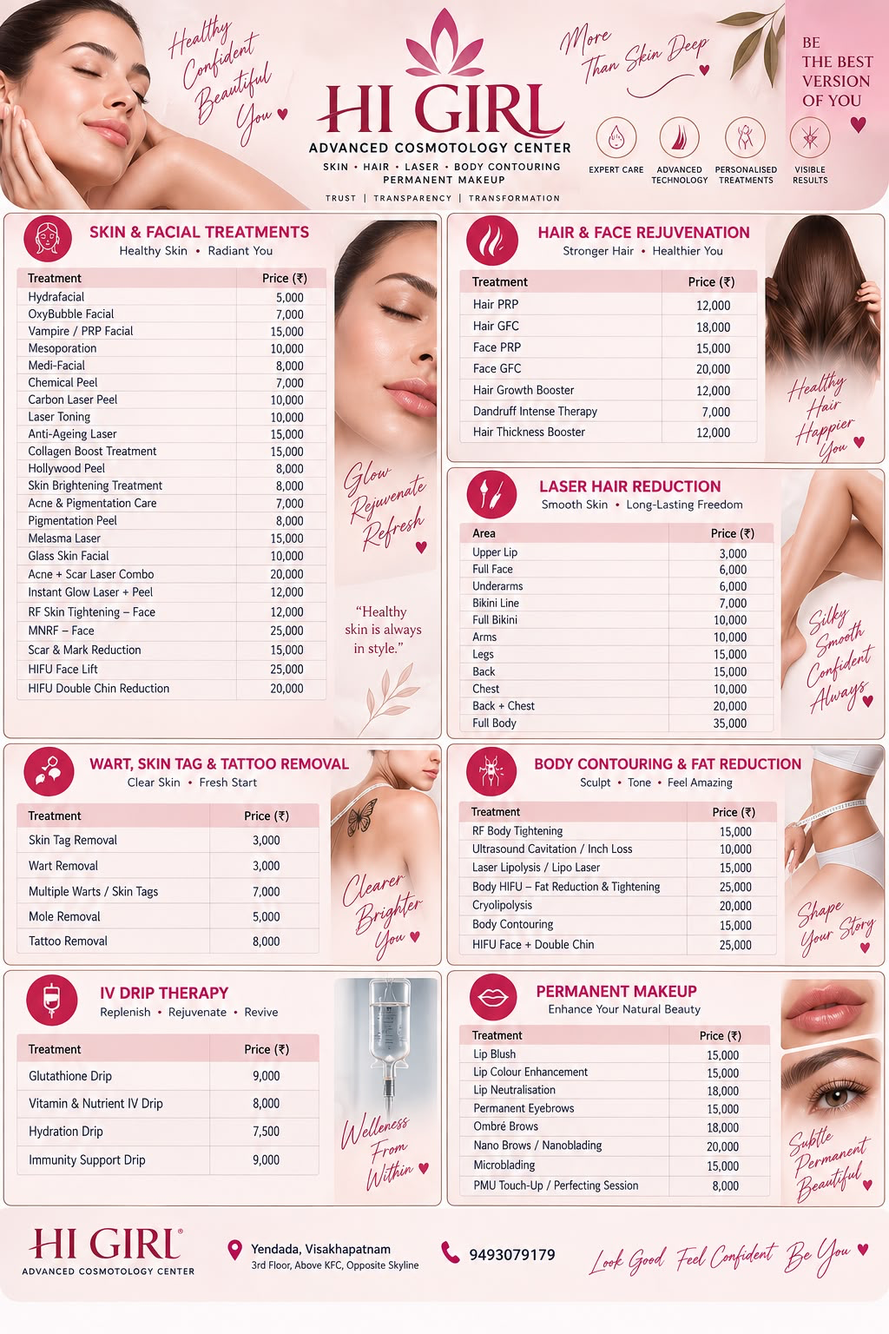
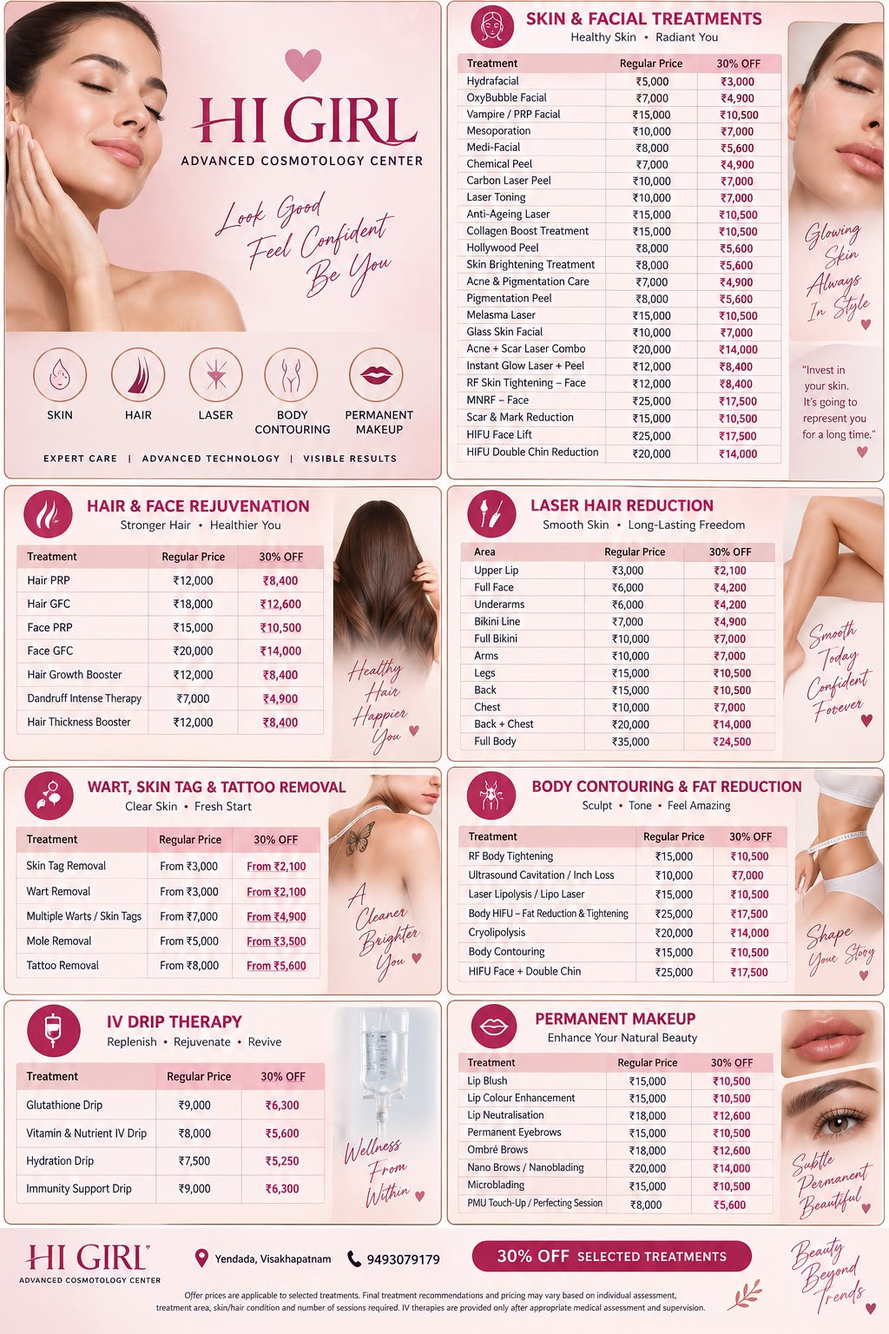
Add 30% off promo pricing to Services with regular + discounted price (#2)
- Show both the regular price (strikethrough) and the current 30% off
  price with a badge on every treatment card, matching the current
  promotional rate card, to make the discount visible at a glance
- Update the section intro copy and add a "30% OFF Selected Treatments"
  promo banner under the price-guide CTA
- Swap the "View Full Price Guide" lightbox image for the 30%-off flyer
  currently being run

Claude-Session: https://claude.ai/code/session_01JaZ162hgMf6UJ9h9KJ2pRi

diff --git a/index.html b/index.html
@@ -133,7 +133,7 @@
   <div class="container">
     <p class="eyebrow center reveal">What We Treat</p>
     <h2 class="center reveal">Services &amp; Treatments</h2>
-    <p class="section-sub center reveal">Final treatment recommendations and pricing may vary based on individual assessment, treatment area/condition and number of sessions required. IV therapies are provided only after appropriate medical assessment and supervision.</p>
+    <p class="section-sub center reveal">Enjoy <strong>30% off</strong> on selected treatments below — final treatment recommendations and pricing may vary based on individual assessment, treatment area/condition and number of sessions required. IV therapies are provided only after appropriate medical assessment and supervision.</p>
 
     <div class="tabs reveal" id="serviceTabs">
       <button class="tab active" data-tab="skin">Skin &amp; Facial Treatments</button>
@@ -148,101 +148,101 @@
     <div class="tab-panels">
       <div class="tab-panel active" data-panel="skin">
         <div class="svc-grid">
-          <div class="svc-card"><h3>Hydrafacial</h3><p>Deep cleansing, exfoliation &amp; hydration for instant glow.</p><span>₹5,000</span></div>
-          <div class="svc-card"><h3>OxyBubble Facial</h3><p>Oxygen-infused bubble facial for radiant, refreshed skin.</p><span>₹7,000</span></div>
-          <div class="svc-card"><h3>Vampire / PRP Facial</h3><p>PRP + microneedling for natural glow &amp; rejuvenation.</p><span>₹15,000</span></div>
-          <div class="svc-card"><h3>Mesoporation</h3><p>Nutrient infusion for deep skin hydration &amp; repair.</p><span>₹10,000</span></div>
-          <div class="svc-card"><h3>Medi-Facial</h3><p>Medical-grade facial for healthy, balanced skin.</p><span>₹8,000</span></div>
-          <div class="svc-card"><h3>Chemical Peel</h3><p>Exfoliates dead skin; treats acne, scars &amp; pigmentation.</p><span>₹7,000</span></div>
-          <div class="svc-card"><h3>Carbon Laser Peel</h3><p>Instant glow treatment that reduces oiliness, acne &amp; pores.</p><span>₹10,000</span></div>
-          <div class="svc-card"><h3>Laser Toning</h3><p>Pigmentation, melasma &amp; uneven skin tone correction.</p><span>₹10,000</span></div>
-          <div class="svc-card"><h3>Anti-Ageing Laser</h3><p>Reduces fine lines &amp; restores youthful skin texture.</p><span>₹15,000</span></div>
-          <div class="svc-card"><h3>Collagen Boost Treatment</h3><p>Stimulates collagen for firmer, plumper skin.</p><span>₹15,000</span></div>
-          <div class="svc-card"><h3>Hollywood Peel</h3><p>Instant brightening carbon peel for red-carpet glow.</p><span>₹8,000</span></div>
-          <div class="svc-card"><h3>Skin Brightening Treatment</h3><p>Evens out tone for visibly brighter skin.</p><span>₹8,000</span></div>
-          <div class="svc-card"><h3>Acne &amp; Pigmentation Care</h3><p>Targeted therapy for acne &amp; pigmentation concerns.</p><span>₹7,000</span></div>
-          <div class="svc-card"><h3>Pigmentation Peel</h3><p>Reduces dark spots &amp; uneven pigmentation.</p><span>₹8,000</span></div>
-          <div class="svc-card"><h3>Melasma Laser</h3><p>Targeted laser therapy for stubborn melasma.</p><span>₹15,000</span></div>
-          <div class="svc-card"><h3>Glass Skin Facial</h3><p>Deep hydration for a dewy, glass-like glow.</p><span>₹10,000</span></div>
-          <div class="svc-card"><h3>Acne + Scar Laser Combo</h3><p>Combined laser therapy for active acne &amp; scarring.</p><span>₹20,000</span></div>
-          <div class="svc-card"><h3>Instant Glow Laser + Peel</h3><p>Laser and peel combo for an immediate radiance boost.</p><span>₹12,000</span></div>
-          <div class="svc-card"><h3>RF Skin Tightening – Face</h3><p>Radiofrequency tightening for firmer facial skin.</p><span>₹12,000</span></div>
-          <div class="svc-card"><h3>MNRF – Face</h3><p>Microneedling + RF for acne scars, pores &amp; tightening.</p><span>₹25,000</span></div>
-          <div class="svc-card"><h3>Scar &amp; Mark Reduction</h3><p>Reduces acne, surgical scars &amp; stretch marks.</p><span>₹15,000</span></div>
-          <div class="svc-card"><h3>HIFU Face Lift</h3><p>Non-surgical skin tightening &amp; lifting.</p><span>₹25,000</span></div>
-          <div class="svc-card"><h3>HIFU Double Chin Reduction</h3><p>Reduces chin fat, improves jawline definition.</p><span>₹20,000</span></div>
+          <div class="svc-card"><h3>Hydrafacial</h3><p>Deep cleansing, exfoliation &amp; hydration for instant glow.</p><div class="svc-price"><span class="price-old">₹5,000</span><span class="price-new">₹3,000</span><span class="price-badge">30% OFF</span></div></div>
+          <div class="svc-card"><h3>OxyBubble Facial</h3><p>Oxygen-infused bubble facial for radiant, refreshed skin.</p><div class="svc-price"><span class="price-old">₹7,000</span><span class="price-new">₹4,900</span><span class="price-badge">30% OFF</span></div></div>
+          <div class="svc-card"><h3>Vampire / PRP Facial</h3><p>PRP + microneedling for natural glow &amp; rejuvenation.</p><div class="svc-price"><span class="price-old">₹15,000</span><span class="price-new">₹10,500</span><span class="price-badge">30% OFF</span></div></div>
+          <div class="svc-card"><h3>Mesoporation</h3><p>Nutrient infusion for deep skin hydration &amp; repair.</p><div class="svc-price"><span class="price-old">₹10,000</span><span class="price-new">₹7,000</span><span class="price-badge">30% OFF</span></div></div>
+          <div class="svc-card"><h3>Medi-Facial</h3><p>Medical-grade facial for healthy, balanced skin.</p><div class="svc-price"><span class="price-old">₹8,000</span><span class="price-new">₹5,600</span><span class="price-badge">30% OFF</span></div></div>
+          <div class="svc-card"><h3>Chemical Peel</h3><p>Exfoliates dead skin; treats acne, scars &amp; pigmentation.</p><div class="svc-price"><span class="price-old">₹7,000</span><span class="price-new">₹4,900</span><span class="price-badge">30% OFF</span></div></div>
+          <div class="svc-card"><h3>Carbon Laser Peel</h3><p>Instant glow treatment that reduces oiliness, acne &amp; pores.</p><div class="svc-price"><span class="price-old">₹10,000</span><span class="price-new">₹7,000</span><span class="price-badge">30% OFF</span></div></div>
+          <div class="svc-card"><h3>Laser Toning</h3><p>Pigmentation, melasma &amp; uneven skin tone correction.</p><div class="svc-price"><span class="price-old">₹10,000</span><span class="price-new">₹7,000</span><span class="price-badge">30% OFF</span></div></div>
+          <div class="svc-card"><h3>Anti-Ageing Laser</h3><p>Reduces fine lines &amp; restores youthful skin texture.</p><div class="svc-price"><span class="price-old">₹15,000</span><span class="price-new">₹10,500</span><span class="price-badge">30% OFF</span></div></div>
+          <div class="svc-card"><h3>Collagen Boost Treatment</h3><p>Stimulates collagen for firmer, plumper skin.</p><div class="svc-price"><span class="price-old">₹15,000</span><span class="price-new">₹10,500</span><span class="price-badge">30% OFF</span></div></div>
+          <div class="svc-card"><h3>Hollywood Peel</h3><p>Instant brightening carbon peel for red-carpet glow.</p><div class="svc-price"><span class="price-old">₹8,000</span><span class="price-new">₹5,600</span><span class="price-badge">30% OFF</span></div></div>
+          <div class="svc-card"><h3>Skin Brightening Treatment</h3><p>Evens out tone for visibly brighter skin.</p><div class="svc-price"><span class="price-old">₹8,000</span><span class="price-new">₹5,600</span><span class="price-badge">30% OFF</span></div></div>
+          <div class="svc-card"><h3>Acne &amp; Pigmentation Care</h3><p>Targeted therapy for acne &amp; pigmentation concerns.</p><div class="svc-price"><span class="price-old">₹7,000</span><span class="price-new">₹4,900</span><span class="price-badge">30% OFF</span></div></div>
+          <div class="svc-card"><h3>Pigmentation Peel</h3><p>Reduces dark spots &amp; uneven pigmentation.</p><div class="svc-price"><span class="price-old">₹8,000</span><span class="price-new">₹5,600</span><span class="price-badge">30% OFF</span></div></div>
+          <div class="svc-card"><h3>Melasma Laser</h3><p>Targeted laser therapy for stubborn melasma.</p><div class="svc-price"><span class="price-old">₹15,000</span><span class="price-new">₹10,500</span><span class="price-badge">30% OFF</span></div></div>
+          <div class="svc-card"><h3>Glass Skin Facial</h3><p>Deep hydration for a dewy, glass-like glow.</p><div class="svc-price"><span class="price-old">₹10,000</span><span class="price-new">₹7,000</span><span class="price-badge">30% OFF</span></div></div>
+          <div class="svc-card"><h3>Acne + Scar Laser Combo</h3><p>Combined laser therapy for active acne &amp; scarring.</p><div class="svc-price"><span class="price-old">₹20,000</span><span class="price-new">₹14,000</span><span class="price-badge">30% OFF</span></div></div>
+          <div class="svc-card"><h3>Instant Glow Laser + Peel</h3><p>Laser and peel combo for an immediate radiance boost.</p><div class="svc-price"><span class="price-old">₹12,000</span><span class="price-new">₹8,400</span><span class="price-badge">30% OFF</span></div></div>
+          <div class="svc-card"><h3>RF Skin Tightening – Face</h3><p>Radiofrequency tightening for firmer facial skin.</p><div class="svc-price"><span class="price-old">₹12,000</span><span class="price-new">₹8,400</span><span class="price-badge">30% OFF</span></div></div>
+          <div class="svc-card"><h3>MNRF – Face</h3><p>Microneedling + RF for acne scars, pores &amp; tightening.</p><div class="svc-price"><span class="price-old">₹25,000</span><span class="price-new">₹17,500</span><span class="price-badge">30% OFF</span></div></div>
+          <div class="svc-card"><h3>Scar &amp; Mark Reduction</h3><p>Reduces acne, surgical scars &amp; stretch marks.</p><div class="svc-price"><span class="price-old">₹15,000</span><span class="price-new">₹10,500</span><span class="price-badge">30% OFF</span></div></div>
+          <div class="svc-card"><h3>HIFU Face Lift</h3><p>Non-surgical skin tightening &amp; lifting.</p><div class="svc-price"><span class="price-old">₹25,000</span><span class="price-new">₹17,500</span><span class="price-badge">30% OFF</span></div></div>
+          <div class="svc-card"><h3>HIFU Double Chin Reduction</h3><p>Reduces chin fat, improves jawline definition.</p><div class="svc-price"><span class="price-old">₹20,000</span><span class="price-new">₹14,000</span><span class="price-badge">30% OFF</span></div></div>
         </div>
       </div>
 
       <div class="tab-panel" data-panel="hair">
         <div class="svc-grid">
-          <div class="svc-card"><h3>Hair PRP</h3><p>Platelet-rich plasma scalp therapy for regrowth.</p><span>₹12,000</span></div>
-          <div class="svc-card"><h3>Hair GFC</h3><p>Growth-factor concentrate therapy for hair regrowth.</p><span>₹18,000</span></div>
-          <div class="svc-card"><h3>Face PRP</h3><p>From your own blood, for facial skin rejuvenation.</p><span>₹15,000</span></div>
-          <div class="svc-card"><h3>Face GFC</h3><p>Advanced growth factors for facial rejuvenation.</p><span>₹20,000</span></div>
-          <div class="svc-card"><h3>Hair Growth Booster</h3><p>Strengthens hair, reduces fall &amp; improves density.</p><span>₹12,000</span></div>
-          <div class="svc-card"><h3>Dandruff Intense Therapy</h3><p>Targeted scalp therapy for stubborn dandruff.</p><span>₹7,000</span></div>
-          <div class="svc-card"><h3>Hair Thickness Booster</h3><p>Improves hair density &amp; thickness over sessions.</p><span>₹12,000</span></div>
+          <div class="svc-card"><h3>Hair PRP</h3><p>Platelet-rich plasma scalp therapy for regrowth.</p><div class="svc-price"><span class="price-old">₹12,000</span><span class="price-new">₹8,400</span><span class="price-badge">30% OFF</span></div></div>
+          <div class="svc-card"><h3>Hair GFC</h3><p>Growth-factor concentrate therapy for hair regrowth.</p><div class="svc-price"><span class="price-old">₹18,000</span><span class="price-new">₹12,600</span><span class="price-badge">30% OFF</span></div></div>
+          <div class="svc-card"><h3>Face PRP</h3><p>From your own blood, for facial skin rejuvenation.</p><div class="svc-price"><span class="price-old">₹15,000</span><span class="price-new">₹10,500</span><span class="price-badge">30% OFF</span></div></div>
+          <div class="svc-card"><h3>Face GFC</h3><p>Advanced growth factors for facial rejuvenation.</p><div class="svc-price"><span class="price-old">₹20,000</span><span class="price-new">₹14,000</span><span class="price-badge">30% OFF</span></div></div>
+          <div class="svc-card"><h3>Hair Growth Booster</h3><p>Strengthens hair, reduces fall &amp; improves density.</p><div class="svc-price"><span class="price-old">₹12,000</span><span class="price-new">₹8,400</span><span class="price-badge">30% OFF</span></div></div>
+          <div class="svc-card"><h3>Dandruff Intense Therapy</h3><p>Targeted scalp therapy for stubborn dandruff.</p><div class="svc-price"><span class="price-old">₹7,000</span><span class="price-new">₹4,900</span><span class="price-badge">30% OFF</span></div></div>
+          <div class="svc-card"><h3>Hair Thickness Booster</h3><p>Improves hair density &amp; thickness over sessions.</p><div class="svc-price"><span class="price-old">₹12,000</span><span class="price-new">₹8,400</span><span class="price-badge">30% OFF</span></div></div>
         </div>
       </div>
 
       <div class="tab-panel" data-panel="laser">
         <div class="svc-grid">
-          <div class="svc-card"><h3>Upper Lip</h3><p>Permanent hair reduction, safe for all skin types.</p><span>₹3,000</span></div>
-          <div class="svc-card"><h3>Full Face</h3><p>Permanent hair reduction, safe for all skin types.</p><span>₹6,000</span></div>
-          <div class="svc-card"><h3>Underarms</h3><p>Permanent hair reduction, safe for all skin types.</p><span>₹6,000</span></div>
-          <div class="svc-card"><h3>Bikini Line</h3><p>Permanent hair reduction, safe for all skin types.</p><span>₹7,000</span></div>
-          <div class="svc-card"><h3>Full Bikini</h3><p>Permanent hair reduction, safe for all skin types.</p><span>₹10,000</span></div>
-          <div class="svc-card"><h3>Arms</h3><p>Permanent hair reduction, safe for all skin types.</p><span>₹10,000</span></div>
-          <div class="svc-card"><h3>Legs</h3><p>Permanent hair reduction, safe for all skin types.</p><span>₹15,000</span></div>
-          <div class="svc-card"><h3>Back</h3><p>Permanent hair reduction, safe for all skin types.</p><span>₹15,000</span></div>
-          <div class="svc-card"><h3>Chest</h3><p>Permanent hair reduction, safe for all skin types.</p><span>₹10,000</span></div>
-          <div class="svc-card"><h3>Back + Chest</h3><p>Permanent hair reduction, safe for all skin types.</p><span>₹20,000</span></div>
-          <div class="svc-card"><h3>Full Body</h3><p>Permanent hair reduction, safe for all skin types.</p><span>₹35,000</span></div>
+          <div class="svc-card"><h3>Upper Lip</h3><p>Permanent hair reduction, safe for all skin types.</p><div class="svc-price"><span class="price-old">₹3,000</span><span class="price-new">₹2,100</span><span class="price-badge">30% OFF</span></div></div>
+          <div class="svc-card"><h3>Full Face</h3><p>Permanent hair reduction, safe for all skin types.</p><div class="svc-price"><span class="price-old">₹6,000</span><span class="price-new">₹4,200</span><span class="price-badge">30% OFF</span></div></div>
+          <div class="svc-card"><h3>Underarms</h3><p>Permanent hair reduction, safe for all skin types.</p><div class="svc-price"><span class="price-old">₹6,000</span><span class="price-new">₹4,200</span><span class="price-badge">30% OFF</span></div></div>
+          <div class="svc-card"><h3>Bikini Line</h3><p>Permanent hair reduction, safe for all skin types.</p><div class="svc-price"><span class="price-old">₹7,000</span><span class="price-new">₹4,900</span><span class="price-badge">30% OFF</span></div></div>
+          <div class="svc-card"><h3>Full Bikini</h3><p>Permanent hair reduction, safe for all skin types.</p><div class="svc-price"><span class="price-old">₹10,000</span><span class="price-new">₹7,000</span><span class="price-badge">30% OFF</span></div></div>
+          <div class="svc-card"><h3>Arms</h3><p>Permanent hair reduction, safe for all skin types.</p><div class="svc-price"><span class="price-old">₹10,000</span><span class="price-new">₹7,000</span><span class="price-badge">30% OFF</span></div></div>
+          <div class="svc-card"><h3>Legs</h3><p>Permanent hair reduction, safe for all skin types.</p><div class="svc-price"><span class="price-old">₹15,000</span><span class="price-new">₹10,500</span><span class="price-badge">30% OFF</span></div></div>
+          <div class="svc-card"><h3>Back</h3><p>Permanent hair reduction, safe for all skin types.</p><div class="svc-price"><span class="price-old">₹15,000</span><span class="price-new">₹10,500</span><span class="price-badge">30% OFF</span></div></div>
+          <div class="svc-card"><h3>Chest</h3><p>Permanent hair reduction, safe for all skin types.</p><div class="svc-price"><span class="price-old">₹10,000</span><span class="price-new">₹7,000</span><span class="price-badge">30% OFF</span></div></div>
+          <div class="svc-card"><h3>Back + Chest</h3><p>Permanent hair reduction, safe for all skin types.</p><div class="svc-price"><span class="price-old">₹20,000</span><span class="price-new">₹14,000</span><span class="price-badge">30% OFF</span></div></div>
+          <div class="svc-card"><h3>Full Body</h3><p>Permanent hair reduction, safe for all skin types.</p><div class="svc-price"><span class="price-old">₹35,000</span><span class="price-new">₹24,500</span><span class="price-badge">30% OFF</span></div></div>
         </div>
       </div>
 
       <div class="tab-panel" data-panel="removal">
         <div class="svc-grid">
-          <div class="svc-card"><h3>Skin Tag Removal</h3><p>Safe, quick &amp; painless removal.</p><span>From ₹3,000</span></div>
-          <div class="svc-card"><h3>Wart Removal</h3><p>Safe, quick &amp; painless removal.</p><span>From ₹3,000</span></div>
-          <div class="svc-card"><h3>Multiple Warts / Skin Tags</h3><p>Safe, quick &amp; painless removal.</p><span>From ₹7,000</span></div>
-          <div class="svc-card"><h3>Mole Removal</h3><p>Safe, quick &amp; painless removal.</p><span>From ₹5,000</span></div>
-          <div class="svc-card"><h3>Tattoo Removal</h3><p>Laser fading &amp; removal of unwanted tattoos.</p><span>From ₹8,000</span></div>
+          <div class="svc-card"><h3>Skin Tag Removal</h3><p>Safe, quick &amp; painless removal.</p><div class="svc-price"><span class="price-old">From ₹3,000</span><span class="price-new">From ₹2,100</span><span class="price-badge">30% OFF</span></div></div>
+          <div class="svc-card"><h3>Wart Removal</h3><p>Safe, quick &amp; painless removal.</p><div class="svc-price"><span class="price-old">From ₹3,000</span><span class="price-new">From ₹2,100</span><span class="price-badge">30% OFF</span></div></div>
+          <div class="svc-card"><h3>Multiple Warts / Skin Tags</h3><p>Safe, quick &amp; painless removal.</p><div class="svc-price"><span class="price-old">From ₹7,000</span><span class="price-new">From ₹4,900</span><span class="price-badge">30% OFF</span></div></div>
+          <div class="svc-card"><h3>Mole Removal</h3><p>Safe, quick &amp; painless removal.</p><div class="svc-price"><span class="price-old">From ₹5,000</span><span class="price-new">From ₹3,500</span><span class="price-badge">30% OFF</span></div></div>
+          <div class="svc-card"><h3>Tattoo Removal</h3><p>Laser fading &amp; removal of unwanted tattoos.</p><div class="svc-price"><span class="price-old">From ₹8,000</span><span class="price-new">From ₹5,600</span><span class="price-badge">30% OFF</span></div></div>
         </div>
       </div>
 
       <div class="tab-panel" data-panel="body">
         <div class="svc-grid">
-          <div class="svc-card"><h3>RF Body Tightening</h3><p>Radiofrequency tightening &amp; toning for the body.</p><span>₹15,000</span></div>
-          <div class="svc-card"><h3>Ultrasound Cavitation / Inch Loss</h3><p>Non-invasive fat reduction &amp; inch-loss therapy.</p><span>₹10,000</span></div>
-          <div class="svc-card"><h3>Laser Lipolysis / Lipo Laser</h3><p>Laser fat reduction &amp; body contouring.</p><span>₹15,000</span></div>
-          <div class="svc-card"><h3>Body HIFU – Fat Reduction &amp; Tightening</h3><p>Non-surgical fat reduction &amp; skin tightening.</p><span>₹25,000</span></div>
-          <div class="svc-card"><h3>Cryolipolysis</h3><p>Fat-freezing treatment for stubborn fat cells.</p><span>₹20,000</span></div>
-          <div class="svc-card"><h3>Body Contouring</h3><p>Sculpts &amp; tones for a refined body shape.</p><span>₹15,000</span></div>
-          <div class="svc-card"><h3>HIFU Face + Double Chin</h3><p>Combined facial &amp; double-chin lifting therapy.</p><span>₹25,000</span></div>
+          <div class="svc-card"><h3>RF Body Tightening</h3><p>Radiofrequency tightening &amp; toning for the body.</p><div class="svc-price"><span class="price-old">₹15,000</span><span class="price-new">₹10,500</span><span class="price-badge">30% OFF</span></div></div>
+          <div class="svc-card"><h3>Ultrasound Cavitation / Inch Loss</h3><p>Non-invasive fat reduction &amp; inch-loss therapy.</p><div class="svc-price"><span class="price-old">₹10,000</span><span class="price-new">₹7,000</span><span class="price-badge">30% OFF</span></div></div>
+          <div class="svc-card"><h3>Laser Lipolysis / Lipo Laser</h3><p>Laser fat reduction &amp; body contouring.</p><div class="svc-price"><span class="price-old">₹15,000</span><span class="price-new">₹10,500</span><span class="price-badge">30% OFF</span></div></div>
+          <div class="svc-card"><h3>Body HIFU – Fat Reduction &amp; Tightening</h3><p>Non-surgical fat reduction &amp; skin tightening.</p><div class="svc-price"><span class="price-old">₹25,000</span><span class="price-new">₹17,500</span><span class="price-badge">30% OFF</span></div></div>
+          <div class="svc-card"><h3>Cryolipolysis</h3><p>Fat-freezing treatment for stubborn fat cells.</p><div class="svc-price"><span class="price-old">₹20,000</span><span class="price-new">₹14,000</span><span class="price-badge">30% OFF</span></div></div>
+          <div class="svc-card"><h3>Body Contouring</h3><p>Sculpts &amp; tones for a refined body shape.</p><div class="svc-price"><span class="price-old">₹15,000</span><span class="price-new">₹10,500</span><span class="price-badge">30% OFF</span></div></div>
+          <div class="svc-card"><h3>HIFU Face + Double Chin</h3><p>Combined facial &amp; double-chin lifting therapy.</p><div class="svc-price"><span class="price-old">₹25,000</span><span class="price-new">₹17,500</span><span class="price-badge">30% OFF</span></div></div>
         </div>
       </div>
 
       <div class="tab-panel" data-panel="pmu">
         <div class="svc-grid">
-          <div class="svc-card"><h3>Lip Blush</h3><p>Improves natural lip colour &amp; shape.</p><span>₹15,000</span></div>
-          <div class="svc-card"><h3>Lip Colour Enhancement</h3><p>Semi-permanent natural lip colour.</p><span>₹15,000</span></div>
-          <div class="svc-card"><h3>Lip Neutralisation</h3><p>Corrects uneven or pigmented lip tone.</p><span>₹18,000</span></div>
-          <div class="svc-card"><h3>Permanent Eyebrows</h3><p>Semi-permanent eyebrow hair strokes.</p><span>₹15,000</span></div>
-          <div class="svc-card"><h3>Ombré Brows</h3><p>Soft powder-effect brows, naturally defined.</p><span>₹18,000</span></div>
-          <div class="svc-card"><h3>Nano Brows / Nanoblading</h3><p>Ultra-fine hair-stroke brows for a natural look.</p><span>₹20,000</span></div>
-          <div class="svc-card"><h3>Microblading</h3><p>Semi-permanent eyebrow hair strokes.</p><span>₹15,000</span></div>
-          <div class="svc-card"><h3>PMU Touch-Up / Perfecting Session</h3><p>Refreshes &amp; perfects existing permanent makeup.</p><span>₹8,000</span></div>
+          <div class="svc-card"><h3>Lip Blush</h3><p>Improves natural lip colour &amp; shape.</p><div class="svc-price"><span class="price-old">₹15,000</span><span class="price-new">₹10,500</span><span class="price-badge">30% OFF</span></div></div>
+          <div class="svc-card"><h3>Lip Colour Enhancement</h3><p>Semi-permanent natural lip colour.</p><div class="svc-price"><span class="price-old">₹15,000</span><span class="price-new">₹10,500</span><span class="price-badge">30% OFF</span></div></div>
+          <div class="svc-card"><h3>Lip Neutralisation</h3><p>Corrects uneven or pigmented lip tone.</p><div class="svc-price"><span class="price-old">₹18,000</span><span class="price-new">₹12,600</span><span class="price-badge">30% OFF</span></div></div>
+          <div class="svc-card"><h3>Permanent Eyebrows</h3><p>Semi-permanent eyebrow hair strokes.</p><div class="svc-price"><span class="price-old">₹15,000</span><span class="price-new">₹10,500</span><span class="price-badge">30% OFF</span></div></div>
+          <div class="svc-card"><h3>Ombré Brows</h3><p>Soft powder-effect brows, naturally defined.</p><div class="svc-price"><span class="price-old">₹18,000</span><span class="price-new">₹12,600</span><span class="price-badge">30% OFF</span></div></div>
+          <div class="svc-card"><h3>Nano Brows / Nanoblading</h3><p>Ultra-fine hair-stroke brows for a natural look.</p><div class="svc-price"><span class="price-old">₹20,000</span><span class="price-new">₹14,000</span><span class="price-badge">30% OFF</span></div></div>
+          <div class="svc-card"><h3>Microblading</h3><p>Semi-permanent eyebrow hair strokes.</p><div class="svc-price"><span class="price-old">₹15,000</span><span class="price-new">₹10,500</span><span class="price-badge">30% OFF</span></div></div>
+          <div class="svc-card"><h3>PMU Touch-Up / Perfecting Session</h3><p>Refreshes &amp; perfects existing permanent makeup.</p><div class="svc-price"><span class="price-old">₹8,000</span><span class="price-new">₹5,600</span><span class="price-badge">30% OFF</span></div></div>
         </div>
       </div>
 
       <div class="tab-panel" data-panel="wellness">
         <div class="svc-grid">
-          <div class="svc-card"><h3>Glutathione Drip</h3><p>Skin brightening &amp; detoxification drip.</p><span>₹9,000</span></div>
-          <div class="svc-card"><h3>Vitamin &amp; Nutrient IV Drip</h3><p>Replenishing vitamin &amp; nutrient infusion.</p><span>₹8,000</span></div>
-          <div class="svc-card"><h3>Hydration Drip</h3><p>Rapid rehydration &amp; wellness boost.</p><span>₹7,500</span></div>
-          <div class="svc-card"><h3>Immunity Support Drip</h3><p>Vitamin &amp; antioxidant drip to boost immunity.</p><span>₹9,000</span></div>
+          <div class="svc-card"><h3>Glutathione Drip</h3><p>Skin brightening &amp; detoxification drip.</p><div class="svc-price"><span class="price-old">₹9,000</span><span class="price-new">₹6,300</span><span class="price-badge">30% OFF</span></div></div>
+          <div class="svc-card"><h3>Vitamin &amp; Nutrient IV Drip</h3><p>Replenishing vitamin &amp; nutrient infusion.</p><div class="svc-price"><span class="price-old">₹8,000</span><span class="price-new">₹5,600</span><span class="price-badge">30% OFF</span></div></div>
+          <div class="svc-card"><h3>Hydration Drip</h3><p>Rapid rehydration &amp; wellness boost.</p><div class="svc-price"><span class="price-old">₹7,500</span><span class="price-new">₹5,250</span><span class="price-badge">30% OFF</span></div></div>
+          <div class="svc-card"><h3>Immunity Support Drip</h3><p>Vitamin &amp; antioxidant drip to boost immunity.</p><div class="svc-price"><span class="price-old">₹9,000</span><span class="price-new">₹6,300</span><span class="price-badge">30% OFF</span></div></div>
         </div>
       </div>
     </div>
@@ -250,6 +250,7 @@
     <div class="price-list-cta reveal">
       <p>Prefer to see everything at a glance?</p>
       <button class="btn btn-outline" id="openPriceList">View Full Price Guide</button>
+      <div><span class="promo-banner">🎉 <strong>30% OFF</strong> Selected Treatments — Limited Time</span></div>
     </div>
   </div>
 </section>

diff --git a/css/styles.css b/css/styles.css
@@ -180,8 +180,20 @@ ul{margin:0;padding:0;list-style:none;}
 .svc-card h3{font-size:1.1rem;margin-bottom:.4em;}
 .svc-card p{font-size:.88rem;color:var(--ink-soft);margin-bottom:.9em;}
 .svc-card span{font-weight:600;color:var(--maroon);font-size:.92rem;}
+.svc-price{display:flex;align-items:baseline;flex-wrap:wrap;gap:.5em;}
+.price-old{font-weight:500;color:var(--ink-soft);font-size:.85rem;text-decoration:line-through;text-decoration-color:var(--gold);opacity:.75;}
+.price-new{font-weight:700;color:var(--maroon);font-size:1.08rem;}
+.price-badge{
+  display:inline-block;background:linear-gradient(120deg,var(--gold),var(--gold-light));color:var(--maroon-dark);
+  font-size:.68rem;font-weight:700;letter-spacing:.03em;padding:.2em .55em;border-radius:999px;text-transform:uppercase;
+}
 .price-list-cta{text-align:center;margin-top:3rem;}
 .price-list-cta p{color:var(--ink-soft);margin-bottom:.8em;}
+.promo-banner{
+  display:inline-flex;align-items:center;gap:.5em;background:var(--maroon);color:#fff;font-weight:700;
+  letter-spacing:.03em;padding:.6em 1.4em;border-radius:999px;margin:1.5rem auto 0;font-size:.95rem;
+}
+.promo-banner strong{color:var(--gold-light);font-size:1.05em;}
 
 /* Before & After */
 .before-after{padding:6rem 0;background:var(--blush);}
